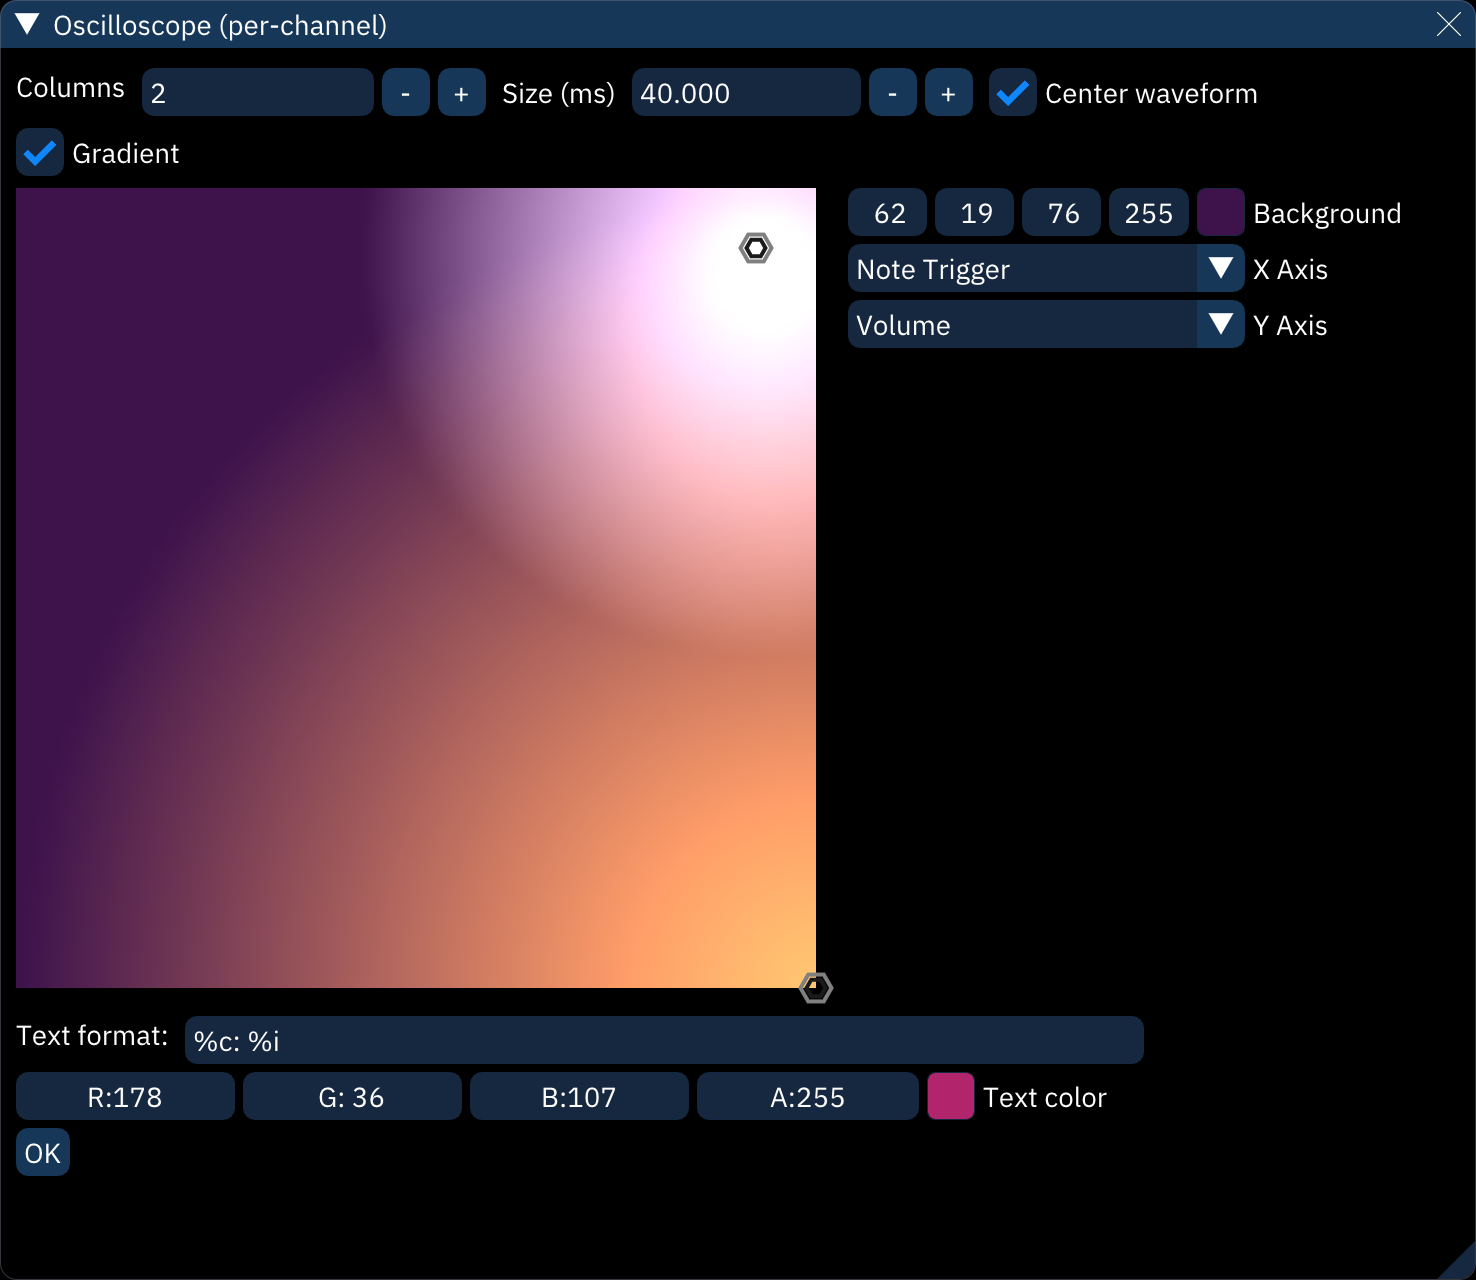
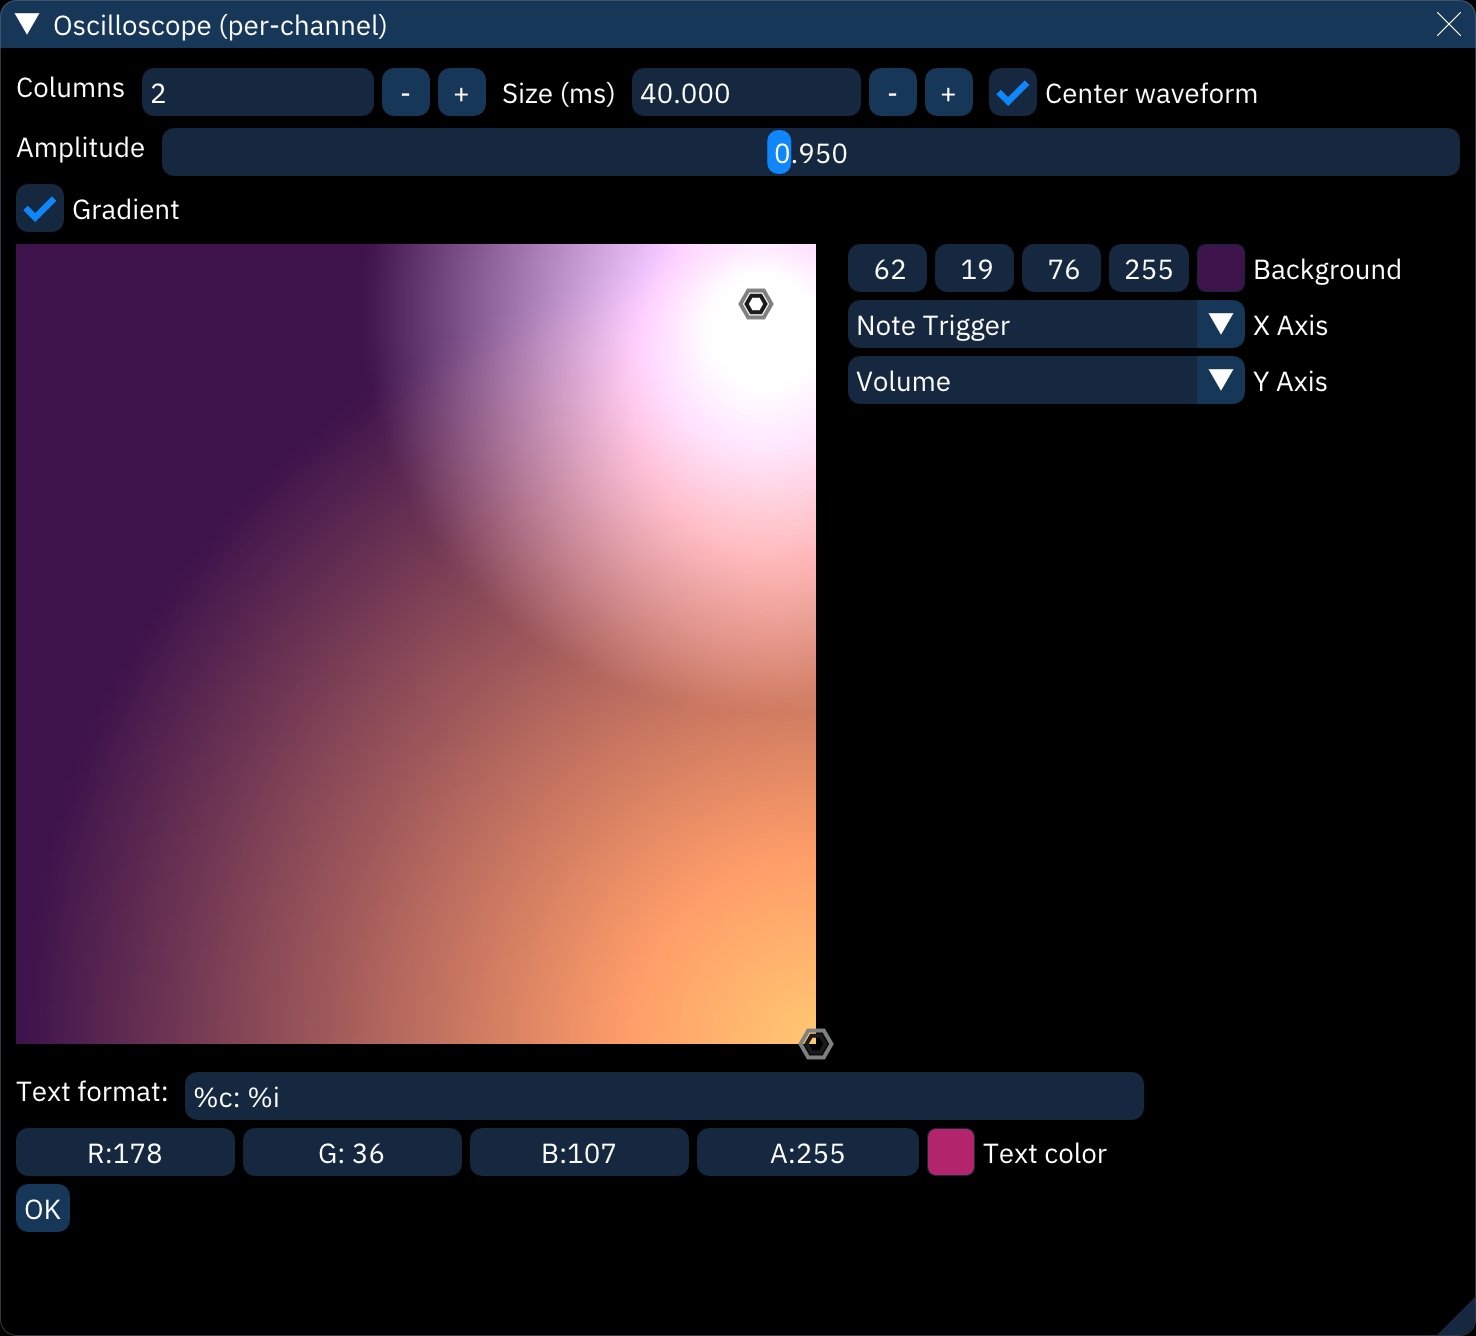
Doc update for per-chan oscs.
When did that amplitude slider arrive? (Also, minor text edits for consistency.)

Changed region(s): [[0.0, 0.0, 0.9973, 0.3125], [0.0, 0.75, 0.7791, 0.9375]]

diff --git a/doc/8-advanced/chanosc.md b/doc/8-advanced/chanosc.md
@@ -1,6 +1,6 @@
-# oscilloscope (per channel)
+# oscilloscope (per-channel)
 
-the "Oscilloscope (per channel)" dialog shows an individual oscilloscope for each channel during playback.
+the "Oscilloscope (per-channel)" dialog shows an individual oscilloscope for each channel during playback.
 
 ![oscilloscope per-channel configuration view](chanosc.png)
 
@@ -8,8 +8,9 @@ right-clicking within the view will change it to the configuration view shown ab
 - **Columns**: arranges oscilloscopes into this many columns.
 - **Size (ms)**: sets what length of audio is visible in each oscilloscope.
 - **Center waveform**: does its best to latch the waveform to the channel's note frequency and centers the display.
+- **Amplitude**: scales amplitude for all oscilloscopes.
 - **Gradient**: see below.
-- the color selector sets the waveform color. right-clicking on it pops up an option dialog:
+- the color selector sets the color for all waveforms. right-clicking on it pops up an option dialog:
   - select between the square selector and the color wheel selector.
   - **Alpha bar**: adds a transparency selector.
 - the boxes below that are for selecting colors numerically by red-green-blue-alpha, hue-saturation-value-alpha, and HTML-style RGBA in hex.
